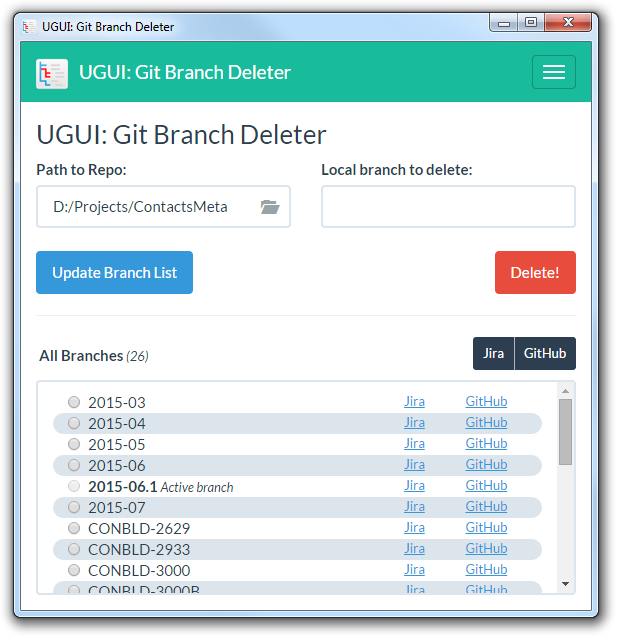
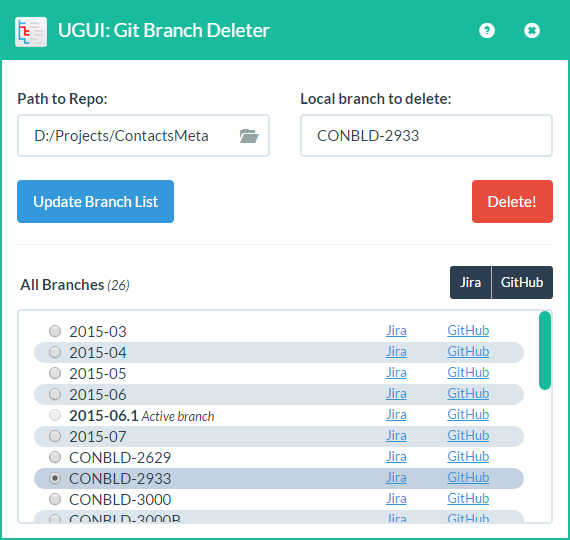
Change app to be frameless
Update Screenshot. Remove double title text. Adjust default height and
width of app. Slim nav down to two icons instead of a menu.

diff --git a/_style/style.css b/_style/style.css
@@ -1,1 +1,1 @@
-@charset "utf-8";*,*:before,*:after{box-sizing:border-box}html{border:0px;margin:0px;padding:0px;width:100%;height:100%}body{border:0px;margin:0px;padding:0px;width:100%;padding-top:57px}input[type="color"]{border:0px;margin:0px;padding:0px;width:3em;height:1.5em;background:transparent}.truncate{white-space:nowrap;overflow:hidden;text-overflow:ellipsis}.row{margin-top:8px}.vtop,.vmiddle,.vcenter,.vbottom{display:inline-block;float:none}.vtop{vertical-align:top}.vmiddle,.vcenter{vertical-align:middle}.vbottom{vertical-align:bottom}.navbar-brand{cursor:default}.navbar-brand img{max-width:32px;max-height:32px;margin:0px 7px 0px 0px}body{overflow:hidden}.browsie{top:-28px;right:15px;color:#95a5a6;background:#fff;padding:0px 0px 0px 4px;cursor:pointer}#allBranches{height:215px;overflow:auto}#allBranches a{color:#3498db}#allBranches div:nth-of-type(4n+1),#allBranches div:nth-of-type(4n+3){border-radius:50px 0px 0px 50px}#allBranches div:nth-of-type(4n+2),#allBranches div:nth-of-type(4n+4){border-radius:0px 50px 50px 0px}#allBranches div:nth-of-type(4n+3),#allBranches div:nth-of-type(4n+4){background-color:#dce4ec}#allBranches div:nth-of-type(4n+1):hover,#allBranches div:nth-of-type(4n+2):hover{background-color:#cfdfef}#allBranches div:nth-of-type(4n+3):hover,#allBranches div:nth-of-type(4n+4):hover{background-color:#c3d1e0}#jiraModal,#githubModal{background-color:rgba(0,0,0,0.6);padding-top:111px;z-index:1080}#button-group{font-size:0px}#jira{border-top-right-radius:0px;border-bottom-right-radius:0px}#github{border-left:1px solid #b6b6b6;border-top-left-radius:0px;border-bottom-left-radius:0px}.allbranchtext{position:relative;top:8px;left:3px}@media(max-width: 991px){#allBranches div:nth-of-type(4n+1),#allBranches div:nth-of-type(4n+2),#allBranches div:nth-of-type(4n+3),#allBranches div:nth-of-type(4n+4){border-radius:50px}#allBranches div:nth-of-type(4n+3),#allBranches div:nth-of-type(4n+4){background-color:transparent}#allBranches div:nth-of-type(odd){background-color:transparent}#allBranches div:nth-of-type(even){background-color:#dce4ec}#allBranches div:nth-of-type(odd):hover{background-color:#cfdfef}#allBranches div:nth-of-type(even):hover{background-color:#c3d1e0}}cmd,cmd def,cmd arg{display:none;font-size:0px;opacity:0;color:transparent}body #argsForm{margin-bottom:50px}body.dev{margin-bottom:280px}#uguiDevTools{display:none;background-color:#e0e0e0;color:#333;padding:0px 10px 0px 10px;border-width:3px 3px 0px 3px;border-style:solid;border-color:#777;border-radius:25px 25px 0px 0px;width:80%;position:fixed;bottom:0px;left:10%;letter-spacing:0px;text-rendering:optimizeSpeed !important;-webkit-font-smoothing:antialiased;font-family:sans-serif;font-size:14px;line-height:20px;transition:0.5s ease all;z-index:9999}#uguiDevTools a{color:#428bca}#uguiDevTools a:hover,#uguiDevTools a:focus{color:#2a6496}#uguiDevTools nav{margin:0px 0px 9px 9px}#uguiDevTools nav span{-webkit-user-select:none;user-select:none;font-size:10px;color:#666;cursor:pointer}#uguiDevTools nav span.selected{font-weight:bold;color:#555;text-shadow:1px 1px 0px #fafafa,-1px -1px 0px #fafafa,-1px 1px 0px #fafafa,1px -1px 0px #fafafa}#uguiDevTools nav span:after{content:" | ";color:#666;font-weight:normal;text-shadow:0px 0px 0px rgba(0,0,0,0)}#uguiDevTools nav span:last-of-type:after{content:""}#uguiDevTools select{background-color:#f5f5f5;border:1px solid #ccc;padding:2px;font-size:13px;font-family:sans-serif;margin:0px 0px 3px 0px}#uguiDevTools section{padding:1px;margin:0px 0px 10px 0px;display:block;height:auto}#uguiDevTools video,#uguiDevTools object,#uguiDevTools embed,#uguiDevTools iframe{display:block;width:320px;height:180px;float:left;border:0px;margin:0px 7px 10px 0px;padding:0px}#uguiDevTools h3{border:0px;margin:0px;padding:0px;border:0px;margin:18px 0px 0px 0px;padding:0px;font-family:sans-serif;font-size:18px;font-weight:bold;color:#333;text-shadow:inherit}#uguiDevTools p{border:0px;padding:0px;margin:8px 0px;font-size:14px;line-height:1.4;color:#333}#uguiDevTools code{border:0px;margin:0px;padding:0px;color:#333;font-size:11px;font-family:monospace}#uguiDevTools ul,#uguiDevTools li strong{border:0px;margin:0px;padding:0px;color:#333;font-size:14px;line-height:1.4}#uguiDevTools li{line-height:1.4;color:#333;font-size:14px;border:0px;padding:0px;margin:0px 0px 0px 23px}#uguiDevTools.slideHide{bottom:-7px !important;transition:0.5s ease all}#uguiDevTools *{transition:0.5s ease all}#uguiDevTools .uguiSwapper p,#uguiDevTools .uguiCommand span,#uguiDevTools .helpIntro{font-size:12px;color:#444}.shrink{height:0px !important;border:0px !important;margin:0px !important;padding:0px !important;font-size:0px !important;line-height:0px !important;opacity:0 !important}.shrink video{width:0px !important;height:0px !important;display:none !important}#commandLine{background-color:#f5f5f5;border:1px solid #ccc;margin:0px;padding:10px;color:#333;font-size:11px;font-family:monospace;line-height:1.4;max-height:92px;overflow:auto}#commandLine:before{content:"Command Line Output Preview:";font-weight:bold}.commandLineHint{font-family:sans-serif;font-size:12px}.commandLineHint em{background-color:#f1f1f1;border:1px solid #ccc;border-radius:3px;padding:2px;font-weight:bold;font-size:11px;font-style:normal}#swatchSwapper,span[data-nav="uguiExecutable"],.executableName{text-transform:capitalize}#setNewSwatch{height:24px;background:#f5f5f5;border:1px solid #ccc;padding:0px 10px;font-size:11px;line-height:0px;box-shadow:0px 0px 2px #ccc;vertical-align:top}.newSwatchSaved{font-style:italic;opacity:0;-webkit-transition:0.5s ease-in-out;transition:0.5s ease-in-out}.newSwatchSaved.showSaved{opacity:1}.executableName{color:#555}.executableHelp{max-height:156px}.modal .versionApp,.modal .versionUGUI{position:relative;top:-0.2em;background-color:rgba(0,0,0,0.2);border-radius:100px;margin:0px;padding:3px 8px;color:#fff;line-height:normal;box-shadow:inset 1px 1px 2px rgba(0,0,0,0.25)}body .devNav,body.prod .devNav{display:none !important}body.dev .devNav{display:block !important}#aboutModal{background-color:rgba(0,0,0,0.6);z-index:1080}#aboutModal .modal-body{overflow:auto;min-height:115px}#aboutModal .glyphicon-remove{cursor:pointer}#aboutModal .versionUGUI:before{content:"V"}.modal-header.shortScreen{padding:0px 9px !important}.modal-header.shortScreen h4{margin:8px 4px !important}.gitHubContributors{font-size:0px}.gitHubContributors img{max-width:32px;max-height:32px}.notOnline{font-size:1em}.notOnline img{display:none}.returnedCmdText{max-height:225px}.dropdown-menu>li>label{display:block;margin-bottom:0px;padding:3px 20px;font-weight:normal;color:#333;line-height:1.42857;clear:both;cursor:pointer;white-space:nowrap}.dropdown-menu>li>label:hover,.dropdown-menu>li>label:focus{text-decoration:none;color:#262626;background-color:#f5f5f5}.dropdown-menu>li>input:checked ~ label,.dropdown-menu>li>input:checked ~ label:hover,.dropdown-menu>li>input:checked ~ label:focus,.dropdown-menu>.active>label,.dropdown-menu>.active>label:hover,.dropdown-menu>.active>label:focus{color:#fff;text-decoration:none;outline:0;background-color:#428bca}.dropdown-menu>li>input[disabled] ~ label,.dropdown-menu>li>input[disabled] ~ label:hover,.dropdown-menu>li>input[disabled] ~ label:focus,.dropdown-menu>.disabled>label,.dropdown-menu>.disabled>label:hover,.dropdown-menu>.disabled>label:focus{color:#999}.dropdown-menu>li>input[disabled] ~ label:hover,.dropdown-menu>li>input[disabled] ~ label:focus,.dropdown-menu>.disabled>label:hover,.dropdown-menu>.disabled>label:focus{text-decoration:none;background-color:transparent;background-image:none;cursor:not-allowed}.dropdown-menu>li>input[type="radio"],.dropdown-menu>li>input[type="checkbox"]{display:none;position:absolute;top:-9999em;left:-9999em}.dropdown-menu>li>label:focus,.dropdown-menu>li>input:focus ~ label{outline:thin dotted;outline:5px auto -webkit-focus-ring-color;outline-offset:-2px}.dropdown-menu.pull-right{right:0px;left:auto}.dropdown-menu.pull-top{bottom:100%;top:auto;margin:0px 0px 2px;box-shadow:0px -6px 12px rgba(0,0,0,0.175)}.dropdown-menu.pull-center{right:50%;left:auto}.dropdown-menu.pull-middle{right:100%;margin:0px 2px 0px 0px;box-shadow:-5px 0px 10px rgba(0,0,0,0.2);left:auto}.dropdown-menu.pull-middle.pull-right{right:auto;left:100%;margin:0px 0px 0px 2px;box-shadow:5px 0px 10px rgba(0,0,0,0.2)}.dropdown-menu.pull-middle.pull-center{right:50%;margin:0px;box-shadow:0px 0px 10px rgba(0,0,0,0.2)}.dropdown-menu.bullet{margin-top:8px}.dropdown-menu.bullet:before{width:0px;height:0px;content:"";display:inline-block;position:absolute;border-color:transparent;border-style:solid;-webkit-transform:rotate(360deg);border-width:0px 7px 7px;border-bottom-color:#ccc;border-bottom-color:rgba(0,0,0,0.15);top:-7px;left:9px}.dropdown-menu.bullet:after{width:0px;height:0px;content:"";display:inline-block;position:absolute;border-color:transparent;border-style:solid;-webkit-transform:rotate(360deg);border-width:0px 6px 6px;border-bottom-color:#fff;top:-6px;left:10px}.dropdown-menu.bullet.pull-right:before{left:auto;right:9px}.dropdown-menu.bullet.pull-right:after{left:auto;right:10px}.dropdown-menu.bullet.pull-top{margin-top:0px;margin-bottom:8px}.dropdown-menu.bullet.pull-top:before{top:auto;bottom:-7px;border-bottom-width:0px;border-top-width:7px;border-top-color:#ccc;border-top-color:rgba(0,0,0,0.15)}.dropdown-menu.bullet.pull-top:after{top:auto;bottom:-6px;border-bottom:none;border-top-width:6px;border-top-color:#fff}.dropdown-menu.bullet.pull-center:before{left:auto;right:50%;margin-right:-7px}.dropdown-menu.bullet.pull-center:after{left:auto;right:50%;margin-right:-6px}.dropdown-menu.bullet.pull-middle{margin-right:8px}.dropdown-menu.bullet.pull-middle:before{top:50%;left:100%;right:auto;margin-top:-7px;border-right-width:0px;border-bottom-color:transparent;border-top-width:7px;border-left-color:#ccc;border-left-color:rgba(0,0,0,0.15)}.dropdown-menu.bullet.pull-middle:after{top:50%;left:100%;right:auto;margin-top:-6px;border-right-width:0px;border-bottom-color:transparent;border-top-width:6px;border-left-color:#fff}.dropdown-menu.bullet.pull-middle.pull-right{margin-right:0;margin-left:8px}.dropdown-menu.bullet.pull-middle.pull-right:before{left:-7px;border-left-width:0px;border-right-width:7px;border-right-color:#ccc;border-right-color:rgba(0,0,0,0.15)}.dropdown-menu.bullet.pull-middle.pull-right:after{left:-6px;border-left-width:0px;border-right-width:6px;border-right-color:#fff}.dropdown-menu.bullet.pull-middle.pull-center{margin-left:0px;margin-right:0px}.dropdown-menu.bullet.pull-middle.pull-center:before{border:none;display:none}.dropdown-menu.bullet.pull-middle.pull-center:after{border:none;display:none}.dropdown-submenu{position:relative}.dropdown-submenu>.dropdown-menu{top:0px;left:100%;margin-top:-6px;margin-left:-1px;border-top-left-radius:0px}.dropdown-submenu>a:before{display:block;float:right;width:0px;height:0px;content:"";margin-top:6px;margin-right:-8px;border-width:4px 0 4px 4px;border-style:solid;border-left-style:dashed;border-top-color:transparent;border-bottom-color:transparent}@media (max-width: 767px){.navbar-nav .dropdown-submenu>a{padding-left:40px}.navbar-nav .dropdown-submenu>a:before{margin-top:8px;border-color:inherit;border-style:solid;border-width:4px 4px 0px;border-left-color:transparent;border-right-color:transparent}.navbar-nav>.open>.dropdown-menu>.dropdown-submenu>.dropdown-menu>li>a,.navbar-nav>.open>.dropdown-menu>.dropdown-submenu>.dropdown-menu>li>label{padding-left:35px}.navbar-nav>.open>.dropdown-menu>.dropdown-submenu>.dropdown-menu>li>.dropdown-menu>li>a,.navbar-nav>.open>.dropdown-menu>.dropdown-submenu>.dropdown-menu>li>.dropdown-menu>li>label{padding-left:45px}.navbar-nav>.open>.dropdown-menu>.dropdown-submenu>.dropdown-menu>li>.dropdown-menu>li>.dropdown-menu>li>a,.navbar-nav>.open>.dropdown-menu>.dropdown-submenu>.dropdown-menu>li>.dropdown-menu>li>.dropdown-menu>li>label{padding-left:55px}.navbar-nav>.open>.dropdown-menu>.dropdown-submenu>.dropdown-menu>li>.dropdown-menu>li>.dropdown-menu>li>.dropdown-menu>li>a,.navbar-nav>.open>.dropdown-menu>.dropdown-submenu>.dropdown-menu>li>.dropdown-menu>li>.dropdown-menu>li>.dropdown-menu>li>label{padding-left:65px}.navbar-nav>.open>.dropdown-menu>.dropdown-submenu>.dropdown-menu>li>.dropdown-menu>li>.dropdown-menu>li>.dropdown-menu>li>.dropdown-menu>li>a,.navbar-nav>.open>.dropdown-menu>.dropdown-submenu>.dropdown-menu>li>.dropdown-menu>li>.dropdown-menu>li>.dropdown-menu>li>.dropdown-menu>li>label{padding-left:75px}.navbar-default .navbar-nav .open>.dropdown-menu>.dropdown-submenu.open>a,.navbar-default .navbar-nav .open>.dropdown-menu>.dropdown-submenu.open>a:hover,.navbar-default .navbar-nav .open>.dropdown-menu>.dropdown-submenu.open>a:focus{background-color:#e7e7e7;color:#555}}@media (max-width: 767px){.navbar-default .navbar-nav .open>.dropdown-menu>.dropdown-submenu.open>a:before{border-top-color:#555}.navbar-inverse .navbar-nav .open>.dropdown-menu>.dropdown-submenu.open>a,.navbar-inverse .navbar-nav .open>.dropdown-menu>.dropdown-submenu.open>a:hover,.navbar-inverse .navbar-nav .open>.dropdown-menu>.dropdown-submenu.open>a:focus{background-color:#080808;color:#fff}}@media (max-width: 767px){.navbar-inverse .navbar-nav .open>.dropdown-menu>.dropdown-submenu.open>a:before{border-top-color:#fff}}.slider{display:inline-block;vertical-align:middle;position:relative}.slider.slider-horizontal{width:210px;height:20px}.slider.slider-horizontal .slider-track{height:10px;width:100%;margin-top:-5px;top:50%;left:0}.slider.slider-horizontal .slider-selection{height:100%;top:0;bottom:0}.slider.slider-horizontal .slider-handle{margin-left:-10px;margin-top:-5px}.slider.slider-horizontal .slider-handle.triangle{border-width:0 10px 10px 10px;width:0;height:0;border-bottom-color:#0480BE;margin-top:0}.slider.slider-vertical{height:210px;width:20px}.slider.slider-vertical .slider-track{width:10px;height:100%;margin-left:-5px;left:50%;top:0}.slider.slider-vertical .slider-selection{width:100%;left:0;top:0;bottom:0}.slider.slider-vertical .slider-handle{margin-left:-5px;margin-top:-10px}.slider.slider-vertical .slider-handle.triangle{border-width:10px 0 10px 10px;width:1px;height:1px;border-left-color:#0480BE;margin-left:0}.slider input{display:none}.slider .tooltip-inner{white-space:nowrap}.slider-track{position:absolute;cursor:pointer;background-color:#f7f7f7;background-image:linear-gradient(to bottom, #f5f5f5,#f9f9f9);background-repeat:repeat-x;-webkit-box-shadow:inset 0 1px 2px rgba(0,0,0,0.1);-moz-box-shadow:inset 0 1px 2px rgba(0,0,0,0.1);box-shadow:inset 0 1px 2px rgba(0,0,0,0.1);-webkit-border-radius:4px;-moz-border-radius:4px;-ms-border-radius:4px;-o-border-radius:4px;border-radius:4px}.slider-selection{position:absolute;background-color:#f7f7f7;background-image:linear-gradient(to bottom, #f9f9f9,#f5f5f5);background-repeat:repeat-x;-webkit-box-shadow:inset 0 -1px 0 rgba(0,0,0,0.15);-moz-box-shadow:inset 0 -1px 0 rgba(0,0,0,0.15);box-shadow:inset 0 -1px 0 rgba(0,0,0,0.15);-webkit-box-sizing:border-box;-moz-box-sizing:border-box;box-sizing:border-box;-webkit-border-radius:4px;-moz-border-radius:4px;-ms-border-radius:4px;-o-border-radius:4px;border-radius:4px}.slider-handle{position:absolute;width:20px;height:20px;background-color:#337AB7;background-color:#0e90d2;background-image:linear-gradient(to bottom, #149bdf,#0480be);background-repeat:repeat-x;-webkit-box-shadow:inset 0 1px 0 rgba(255,255,255,0.2),0 1px 2px rgba(0,0,0,0.05);-moz-box-shadow:inset 0 1px 0 rgba(255,255,255,0.2),0 1px 2px rgba(0,0,0,0.05);box-shadow:inset 0 1px 0 rgba(255,255,255,0.2),0 1px 2px rgba(0,0,0,0.05);border:0px solid transparent}.slider-handle.round{-webkit-border-radius:20px;-moz-border-radius:20px;-ms-border-radius:20px;-o-border-radius:20px;border-radius:20px}.slider-handle.triangle{background:transparent none}.slider{margin:0px 10px}.slider .slider-selection{background:#CCC}.tooltip.top{margin-top:-35px}.ezdz{position:relative}.ezdz label{margin:0px;line-height:1.5em;vertical-align:middle}.ezdz label:after{content:" "}.ezdz span{vertical-align:middle}.ezdz img{display:block;border-radius:10px;vertical-align:middle;max-width:100px;max-height:50px;margin:0px 5px 0px 0px}.ezdz [type="file"]{position:absolute;cursor:pointer;opacity:1;top:0px;right:0px;width:100%;height:100%}.ezdz [type="file"] /deep/ [type="button"]{display:none}
+@charset "utf-8";*,*:before,*:after{box-sizing:border-box}html{border:0px;margin:0px;padding:0px;width:100%;height:100%}body{border:0px;margin:0px;padding:0px;width:100%;padding-top:57px}input[type="color"]{border:0px;margin:0px;padding:0px;width:3em;height:1.5em;background:transparent}.truncate{white-space:nowrap;overflow:hidden;text-overflow:ellipsis}.row{margin-top:8px}.vtop,.vmiddle,.vcenter,.vbottom{display:inline-block;float:none}.vtop{vertical-align:top}.vmiddle,.vcenter{vertical-align:middle}.vbottom{vertical-align:bottom}.navbar-brand{cursor:default}.navbar-brand img{max-width:32px;max-height:32px;margin:0px 7px 0px 0px}*::-webkit-scrollbar-track{border-radius:10px;background:#fff}*::-webkit-scrollbar{width:12px;background-color:#fff}*::-webkit-scrollbar-thumb{border-radius:10px;background-color:#18bc9c}html{border:2px solid #18bc9c}body{overflow:hidden}.dragon{-webkit-app-region:drag}.dragoff{-webkit-app-region:no-drag}.navIcons{float:right;margin-right:17px}.navIcons a{line-height:21px;padding:19.5px 13.5px;color:#fff;font-size:15px;text-decoration:none}.navIcons a:hover{color:#375a7f}.browsie{top:-28px;right:15px;color:#95a5a6;background:#fff;padding:0px 0px 0px 4px;cursor:pointer}#allBranches{height:215px;overflow:auto}#allBranches a{color:#3498db}#allBranches div:nth-of-type(4n+1),#allBranches div:nth-of-type(4n+3){border-radius:50px 0px 0px 50px}#allBranches div:nth-of-type(4n+2),#allBranches div:nth-of-type(4n+4){border-radius:0px 50px 50px 0px}#allBranches div:nth-of-type(4n+3),#allBranches div:nth-of-type(4n+4){background-color:#dce4ec}#allBranches div:nth-of-type(4n+1):hover,#allBranches div:nth-of-type(4n+2):hover{background-color:#cfdfef}#allBranches div:nth-of-type(4n+3):hover,#allBranches div:nth-of-type(4n+4):hover{background-color:#c3d1e0}.allbranchtext{position:relative;top:8px;left:3px}#jiraModal,#githubModal{background-color:rgba(0,0,0,0.6);padding-top:111px;z-index:1080}#button-group{font-size:0px}#jira{border-top-right-radius:0px;border-bottom-right-radius:0px}#github{border-left:1px solid #b6b6b6;border-top-left-radius:0px;border-bottom-left-radius:0px}@media (min-width: 768px){.navIcons{display:none}}@media(max-width: 991px){#allBranches div:nth-of-type(4n+1),#allBranches div:nth-of-type(4n+2),#allBranches div:nth-of-type(4n+3),#allBranches div:nth-of-type(4n+4){border-radius:50px}#allBranches div:nth-of-type(4n+3),#allBranches div:nth-of-type(4n+4){background-color:transparent}#allBranches div:nth-of-type(odd){background-color:transparent}#allBranches div:nth-of-type(even){background-color:#dce4ec}#allBranches div:nth-of-type(odd):hover{background-color:#cfdfef}#allBranches div:nth-of-type(even):hover{background-color:#c3d1e0}}cmd,cmd def,cmd arg{display:none;font-size:0px;opacity:0;color:transparent}body #argsForm{margin-bottom:50px}body.dev{margin-bottom:280px}#uguiDevTools{display:none;background-color:#e0e0e0;color:#333;padding:0px 10px 0px 10px;border-width:3px 3px 0px 3px;border-style:solid;border-color:#777;border-radius:25px 25px 0px 0px;width:80%;position:fixed;bottom:0px;left:10%;letter-spacing:0px;text-rendering:optimizeSpeed !important;-webkit-font-smoothing:antialiased;font-family:sans-serif;font-size:14px;line-height:20px;transition:0.5s ease all;z-index:9999}#uguiDevTools a{color:#428bca}#uguiDevTools a:hover,#uguiDevTools a:focus{color:#2a6496}#uguiDevTools nav{margin:0px 0px 9px 9px}#uguiDevTools nav span{-webkit-user-select:none;user-select:none;font-size:10px;color:#666;cursor:pointer}#uguiDevTools nav span.selected{font-weight:bold;color:#555;text-shadow:1px 1px 0px #fafafa,-1px -1px 0px #fafafa,-1px 1px 0px #fafafa,1px -1px 0px #fafafa}#uguiDevTools nav span:after{content:" | ";color:#666;font-weight:normal;text-shadow:0px 0px 0px rgba(0,0,0,0)}#uguiDevTools nav span:last-of-type:after{content:""}#uguiDevTools select{background-color:#f5f5f5;border:1px solid #ccc;padding:2px;font-size:13px;font-family:sans-serif;margin:0px 0px 3px 0px}#uguiDevTools section{padding:1px;margin:0px 0px 10px 0px;display:block;height:auto}#uguiDevTools video,#uguiDevTools object,#uguiDevTools embed,#uguiDevTools iframe{display:block;width:320px;height:180px;float:left;border:0px;margin:0px 7px 10px 0px;padding:0px}#uguiDevTools h3{border:0px;margin:0px;padding:0px;border:0px;margin:18px 0px 0px 0px;padding:0px;font-family:sans-serif;font-size:18px;font-weight:bold;color:#333;text-shadow:inherit}#uguiDevTools p{border:0px;padding:0px;margin:8px 0px;font-size:14px;line-height:1.4;color:#333}#uguiDevTools code{border:0px;margin:0px;padding:0px;color:#333;font-size:11px;font-family:monospace}#uguiDevTools ul,#uguiDevTools li strong{border:0px;margin:0px;padding:0px;color:#333;font-size:14px;line-height:1.4}#uguiDevTools li{line-height:1.4;color:#333;font-size:14px;border:0px;padding:0px;margin:0px 0px 0px 23px}#uguiDevTools.slideHide{bottom:-7px !important;transition:0.5s ease all}#uguiDevTools *{transition:0.5s ease all}#uguiDevTools .uguiSwapper p,#uguiDevTools .uguiCommand span,#uguiDevTools .helpIntro{font-size:12px;color:#444}.shrink{height:0px !important;border:0px !important;margin:0px !important;padding:0px !important;font-size:0px !important;line-height:0px !important;opacity:0 !important}.shrink video{width:0px !important;height:0px !important;display:none !important}#commandLine{background-color:#f5f5f5;border:1px solid #ccc;margin:0px;padding:10px;color:#333;font-size:11px;font-family:monospace;line-height:1.4;max-height:92px;overflow:auto}#commandLine:before{content:"Command Line Output Preview:";font-weight:bold}.commandLineHint{font-family:sans-serif;font-size:12px}.commandLineHint em{background-color:#f1f1f1;border:1px solid #ccc;border-radius:3px;padding:2px;font-weight:bold;font-size:11px;font-style:normal}#swatchSwapper,span[data-nav="uguiExecutable"],.executableName{text-transform:capitalize}#setNewSwatch{height:24px;background:#f5f5f5;border:1px solid #ccc;padding:0px 10px;font-size:11px;line-height:0px;box-shadow:0px 0px 2px #ccc;vertical-align:top}.newSwatchSaved{font-style:italic;opacity:0;-webkit-transition:0.5s ease-in-out;transition:0.5s ease-in-out}.newSwatchSaved.showSaved{opacity:1}.executableName{color:#555}.executableHelp{max-height:156px}.modal .versionApp,.modal .versionUGUI{position:relative;top:-0.2em;background-color:rgba(0,0,0,0.2);border-radius:100px;margin:0px;padding:3px 8px;color:#fff;line-height:normal;box-shadow:inset 1px 1px 2px rgba(0,0,0,0.25)}body .devNav,body.prod .devNav{display:none !important}body.dev .devNav{display:block !important}#aboutModal{background-color:rgba(0,0,0,0.6);z-index:1080}#aboutModal .modal-body{overflow:auto;min-height:115px}#aboutModal .glyphicon-remove{cursor:pointer}#aboutModal .versionUGUI:before{content:"V"}.modal-header.shortScreen{padding:0px 9px !important}.modal-header.shortScreen h4{margin:8px 4px !important}.gitHubContributors{font-size:0px}.gitHubContributors img{max-width:32px;max-height:32px}.notOnline{font-size:1em}.notOnline img{display:none}.returnedCmdText{max-height:225px}.dropdown-menu>li>label{display:block;margin-bottom:0px;padding:3px 20px;font-weight:normal;color:#333;line-height:1.42857;clear:both;cursor:pointer;white-space:nowrap}.dropdown-menu>li>label:hover,.dropdown-menu>li>label:focus{text-decoration:none;color:#262626;background-color:#f5f5f5}.dropdown-menu>li>input:checked ~ label,.dropdown-menu>li>input:checked ~ label:hover,.dropdown-menu>li>input:checked ~ label:focus,.dropdown-menu>.active>label,.dropdown-menu>.active>label:hover,.dropdown-menu>.active>label:focus{color:#fff;text-decoration:none;outline:0;background-color:#428bca}.dropdown-menu>li>input[disabled] ~ label,.dropdown-menu>li>input[disabled] ~ label:hover,.dropdown-menu>li>input[disabled] ~ label:focus,.dropdown-menu>.disabled>label,.dropdown-menu>.disabled>label:hover,.dropdown-menu>.disabled>label:focus{color:#999}.dropdown-menu>li>input[disabled] ~ label:hover,.dropdown-menu>li>input[disabled] ~ label:focus,.dropdown-menu>.disabled>label:hover,.dropdown-menu>.disabled>label:focus{text-decoration:none;background-color:transparent;background-image:none;cursor:not-allowed}.dropdown-menu>li>input[type="radio"],.dropdown-menu>li>input[type="checkbox"]{display:none;position:absolute;top:-9999em;left:-9999em}.dropdown-menu>li>label:focus,.dropdown-menu>li>input:focus ~ label{outline:thin dotted;outline:5px auto -webkit-focus-ring-color;outline-offset:-2px}.dropdown-menu.pull-right{right:0px;left:auto}.dropdown-menu.pull-top{bottom:100%;top:auto;margin:0px 0px 2px;box-shadow:0px -6px 12px rgba(0,0,0,0.175)}.dropdown-menu.pull-center{right:50%;left:auto}.dropdown-menu.pull-middle{right:100%;margin:0px 2px 0px 0px;box-shadow:-5px 0px 10px rgba(0,0,0,0.2);left:auto}.dropdown-menu.pull-middle.pull-right{right:auto;left:100%;margin:0px 0px 0px 2px;box-shadow:5px 0px 10px rgba(0,0,0,0.2)}.dropdown-menu.pull-middle.pull-center{right:50%;margin:0px;box-shadow:0px 0px 10px rgba(0,0,0,0.2)}.dropdown-menu.bullet{margin-top:8px}.dropdown-menu.bullet:before{width:0px;height:0px;content:"";display:inline-block;position:absolute;border-color:transparent;border-style:solid;-webkit-transform:rotate(360deg);border-width:0px 7px 7px;border-bottom-color:#ccc;border-bottom-color:rgba(0,0,0,0.15);top:-7px;left:9px}.dropdown-menu.bullet:after{width:0px;height:0px;content:"";display:inline-block;position:absolute;border-color:transparent;border-style:solid;-webkit-transform:rotate(360deg);border-width:0px 6px 6px;border-bottom-color:#fff;top:-6px;left:10px}.dropdown-menu.bullet.pull-right:before{left:auto;right:9px}.dropdown-menu.bullet.pull-right:after{left:auto;right:10px}.dropdown-menu.bullet.pull-top{margin-top:0px;margin-bottom:8px}.dropdown-menu.bullet.pull-top:before{top:auto;bottom:-7px;border-bottom-width:0px;border-top-width:7px;border-top-color:#ccc;border-top-color:rgba(0,0,0,0.15)}.dropdown-menu.bullet.pull-top:after{top:auto;bottom:-6px;border-bottom:none;border-top-width:6px;border-top-color:#fff}.dropdown-menu.bullet.pull-center:before{left:auto;right:50%;margin-right:-7px}.dropdown-menu.bullet.pull-center:after{left:auto;right:50%;margin-right:-6px}.dropdown-menu.bullet.pull-middle{margin-right:8px}.dropdown-menu.bullet.pull-middle:before{top:50%;left:100%;right:auto;margin-top:-7px;border-right-width:0px;border-bottom-color:transparent;border-top-width:7px;border-left-color:#ccc;border-left-color:rgba(0,0,0,0.15)}.dropdown-menu.bullet.pull-middle:after{top:50%;left:100%;right:auto;margin-top:-6px;border-right-width:0px;border-bottom-color:transparent;border-top-width:6px;border-left-color:#fff}.dropdown-menu.bullet.pull-middle.pull-right{margin-right:0;margin-left:8px}.dropdown-menu.bullet.pull-middle.pull-right:before{left:-7px;border-left-width:0px;border-right-width:7px;border-right-color:#ccc;border-right-color:rgba(0,0,0,0.15)}.dropdown-menu.bullet.pull-middle.pull-right:after{left:-6px;border-left-width:0px;border-right-width:6px;border-right-color:#fff}.dropdown-menu.bullet.pull-middle.pull-center{margin-left:0px;margin-right:0px}.dropdown-menu.bullet.pull-middle.pull-center:before{border:none;display:none}.dropdown-menu.bullet.pull-middle.pull-center:after{border:none;display:none}.dropdown-submenu{position:relative}.dropdown-submenu>.dropdown-menu{top:0px;left:100%;margin-top:-6px;margin-left:-1px;border-top-left-radius:0px}.dropdown-submenu>a:before{display:block;float:right;width:0px;height:0px;content:"";margin-top:6px;margin-right:-8px;border-width:4px 0 4px 4px;border-style:solid;border-left-style:dashed;border-top-color:transparent;border-bottom-color:transparent}@media (max-width: 767px){.navbar-nav .dropdown-submenu>a{padding-left:40px}.navbar-nav .dropdown-submenu>a:before{margin-top:8px;border-color:inherit;border-style:solid;border-width:4px 4px 0px;border-left-color:transparent;border-right-color:transparent}.navbar-nav>.open>.dropdown-menu>.dropdown-submenu>.dropdown-menu>li>a,.navbar-nav>.open>.dropdown-menu>.dropdown-submenu>.dropdown-menu>li>label{padding-left:35px}.navbar-nav>.open>.dropdown-menu>.dropdown-submenu>.dropdown-menu>li>.dropdown-menu>li>a,.navbar-nav>.open>.dropdown-menu>.dropdown-submenu>.dropdown-menu>li>.dropdown-menu>li>label{padding-left:45px}.navbar-nav>.open>.dropdown-menu>.dropdown-submenu>.dropdown-menu>li>.dropdown-menu>li>.dropdown-menu>li>a,.navbar-nav>.open>.dropdown-menu>.dropdown-submenu>.dropdown-menu>li>.dropdown-menu>li>.dropdown-menu>li>label{padding-left:55px}.navbar-nav>.open>.dropdown-menu>.dropdown-submenu>.dropdown-menu>li>.dropdown-menu>li>.dropdown-menu>li>.dropdown-menu>li>a,.navbar-nav>.open>.dropdown-menu>.dropdown-submenu>.dropdown-menu>li>.dropdown-menu>li>.dropdown-menu>li>.dropdown-menu>li>label{padding-left:65px}.navbar-nav>.open>.dropdown-menu>.dropdown-submenu>.dropdown-menu>li>.dropdown-menu>li>.dropdown-menu>li>.dropdown-menu>li>.dropdown-menu>li>a,.navbar-nav>.open>.dropdown-menu>.dropdown-submenu>.dropdown-menu>li>.dropdown-menu>li>.dropdown-menu>li>.dropdown-menu>li>.dropdown-menu>li>label{padding-left:75px}.navbar-default .navbar-nav .open>.dropdown-menu>.dropdown-submenu.open>a,.navbar-default .navbar-nav .open>.dropdown-menu>.dropdown-submenu.open>a:hover,.navbar-default .navbar-nav .open>.dropdown-menu>.dropdown-submenu.open>a:focus{background-color:#e7e7e7;color:#555}}@media (max-width: 767px){.navbar-default .navbar-nav .open>.dropdown-menu>.dropdown-submenu.open>a:before{border-top-color:#555}.navbar-inverse .navbar-nav .open>.dropdown-menu>.dropdown-submenu.open>a,.navbar-inverse .navbar-nav .open>.dropdown-menu>.dropdown-submenu.open>a:hover,.navbar-inverse .navbar-nav .open>.dropdown-menu>.dropdown-submenu.open>a:focus{background-color:#080808;color:#fff}}@media (max-width: 767px){.navbar-inverse .navbar-nav .open>.dropdown-menu>.dropdown-submenu.open>a:before{border-top-color:#fff}}.slider{display:inline-block;vertical-align:middle;position:relative}.slider.slider-horizontal{width:210px;height:20px}.slider.slider-horizontal .slider-track{height:10px;width:100%;margin-top:-5px;top:50%;left:0}.slider.slider-horizontal .slider-selection{height:100%;top:0;bottom:0}.slider.slider-horizontal .slider-handle{margin-left:-10px;margin-top:-5px}.slider.slider-horizontal .slider-handle.triangle{border-width:0 10px 10px 10px;width:0;height:0;border-bottom-color:#0480BE;margin-top:0}.slider.slider-vertical{height:210px;width:20px}.slider.slider-vertical .slider-track{width:10px;height:100%;margin-left:-5px;left:50%;top:0}.slider.slider-vertical .slider-selection{width:100%;left:0;top:0;bottom:0}.slider.slider-vertical .slider-handle{margin-left:-5px;margin-top:-10px}.slider.slider-vertical .slider-handle.triangle{border-width:10px 0 10px 10px;width:1px;height:1px;border-left-color:#0480BE;margin-left:0}.slider input{display:none}.slider .tooltip-inner{white-space:nowrap}.slider-track{position:absolute;cursor:pointer;background-color:#f7f7f7;background-image:linear-gradient(to bottom, #f5f5f5,#f9f9f9);background-repeat:repeat-x;-webkit-box-shadow:inset 0 1px 2px rgba(0,0,0,0.1);-moz-box-shadow:inset 0 1px 2px rgba(0,0,0,0.1);box-shadow:inset 0 1px 2px rgba(0,0,0,0.1);-webkit-border-radius:4px;-moz-border-radius:4px;-ms-border-radius:4px;-o-border-radius:4px;border-radius:4px}.slider-selection{position:absolute;background-color:#f7f7f7;background-image:linear-gradient(to bottom, #f9f9f9,#f5f5f5);background-repeat:repeat-x;-webkit-box-shadow:inset 0 -1px 0 rgba(0,0,0,0.15);-moz-box-shadow:inset 0 -1px 0 rgba(0,0,0,0.15);box-shadow:inset 0 -1px 0 rgba(0,0,0,0.15);-webkit-box-sizing:border-box;-moz-box-sizing:border-box;box-sizing:border-box;-webkit-border-radius:4px;-moz-border-radius:4px;-ms-border-radius:4px;-o-border-radius:4px;border-radius:4px}.slider-handle{position:absolute;width:20px;height:20px;background-color:#337AB7;background-color:#0e90d2;background-image:linear-gradient(to bottom, #149bdf,#0480be);background-repeat:repeat-x;-webkit-box-shadow:inset 0 1px 0 rgba(255,255,255,0.2),0 1px 2px rgba(0,0,0,0.05);-moz-box-shadow:inset 0 1px 0 rgba(255,255,255,0.2),0 1px 2px rgba(0,0,0,0.05);box-shadow:inset 0 1px 0 rgba(255,255,255,0.2),0 1px 2px rgba(0,0,0,0.05);border:0px solid transparent}.slider-handle.round{-webkit-border-radius:20px;-moz-border-radius:20px;-ms-border-radius:20px;-o-border-radius:20px;border-radius:20px}.slider-handle.triangle{background:transparent none}.slider{margin:0px 10px}.slider .slider-selection{background:#CCC}.tooltip.top{margin-top:-35px}.ezdz{position:relative}.ezdz label{margin:0px;line-height:1.5em;vertical-align:middle}.ezdz label:after{content:" "}.ezdz span{vertical-align:middle}.ezdz img{display:block;border-radius:10px;vertical-align:middle;max-width:100px;max-height:50px;margin:0px 5px 0px 0px}.ezdz [type="file"]{position:absolute;cursor:pointer;opacity:1;top:0px;right:0px;width:100%;height:100%}.ezdz [type="file"] /deep/ [type="button"]{display:none}

diff --git a/index.htm b/index.htm
@@ -77,57 +77,26 @@
         /////////////////////////////////////////////////////////////////
       -->
 
-    <nav class="navbar navbar-inverse navbar-fixed-top" role="navigation">
+    <div class="navbar navbar-inverse navbar-fixed-top dragon" role="navigation">
       <div class="container">
         <div class="navbar-header">
-          <button type="button" class="navbar-toggle collapsed" data-toggle="collapse" data-target=".navbar-collapse">
-            <span class="sr-only">Toggle navigation</span>
-            <span class="icon-bar"></span>
-            <span class="icon-bar"></span>
-            <span class="icon-bar"></span>
-          </button>
+          <div class="navIcons">
+            <a title="About" href="#about" class="dragoff glyphicon glyphicon-question-sign" aria-hidden="true"><span class="sr-only">About</span></a>
+            <a title="Exit" href="#exit" class="dragoff glyphicon glyphicon-remove-sign" aria-hidden="true"><span class="sr-only">Exit</span></a>
+          </div>
           <a class="navbar-brand">
-            <img src="_img/logo.png" alt="Logo" />
-            <span class="applicationName">UGUI: Git Branch Deleter</span>
+            <img src="_img/logo.png" alt="Defluff Logo" />
+            <span class="applicationName">Defluff</span>
           </a>
         </div>
         <div class="navbar-collapse collapse">
-          <ul class="nav navbar-nav">
-            <li><a href="#about">About</a></li>
-            <li><a href="#exit">Exit</a></li>
-            <!--
-            <li class="dropdown">
-              <a href="#" class="dropdown-toggle" data-toggle="dropdown">File <span class="caret"></span></a>
-              <ul class="dropdown-menu" role="menu">
-                <li><a href="#exit">Exit</a></li>
-              </ul>
-            </li>
-            -->
-            <li class="dropdown devNav">
-              <a href="#" class="dropdown-toggle" data-toggle="dropdown">View <span class="caret"></span></a>
-              <ul class="dropdown-menu" role="menu">
-                <li><a href="#fullscreen">Fullscreen</a></li>
-                <!-- devNav items are hidden when in Production mode -->
-                <li class="devNav"><a href="#console">Console</a></li>
-                <li class="divider"></li>
-                <li class="devNav"><a href="#cmdoutput">Command Line Output</a></li>
-              </ul>
-            </li>
-            <!--
-            <li class="dropdown navHelp">
-              <a href="#" class="dropdown-toggle" data-toggle="dropdown">Help <span class="caret"></span></a>
-              <ul class="dropdown-menu" role="menu">
-            -->
-                <!-- <a href="#about"> must exist in your app as it contains the credits for UGUI -->
-            <!--
-                <li><a href="#about">About</a></li>
-              </ul>
-            </li>
-            -->
+          <ul class="nav navbar-nav" style="float:right">
+            <li><a title="About" href="#about" class="dragoff glyphicon glyphicon-question-sign" aria-hidden="true"><span class="sr-only">About</span></a></li>
+            <li><a title="Exit" href="#exit" class="dragoff glyphicon glyphicon-remove-sign" aria-hidden="true"><span class="sr-only">Exit</span></a></li>
           </ul>
         </div><!--/.nav-collapse -->
       </div>
-    </nav>
+    </div>
 
 
 
@@ -148,12 +117,7 @@
 
     <div class="container" role="main">
 
-      <header>
-        <h3>
-          <span class="applicationName">UGUI: Git Branch Deleter</span>
-          <small class="applicationDescription"></small>
-        </h3>
-      </header>
+      <header><br /></header>
 
 
 

diff --git a/_sass/_app.sass b/_sass/_app.sass
@@ -1,8 +1,53 @@
 
 // App specific styles
 
+
+
+/* Window styles */
+
+*::-webkit-scrollbar-track
+    border-radius: 10px
+    background: #FFF
+
+*::-webkit-scrollbar
+    width: 12px
+    background-color: #FFF
+
+*::-webkit-scrollbar-thumb
+    border-radius: 10px
+    background-color: #18BC9C
+
+html
+    border: 2px solid #18BC9C
+
 body
     overflow: hidden
+
+
+
+/* Navigation */
+
+.dragon
+    -webkit-app-region: drag
+
+.dragoff
+    -webkit-app-region: no-drag
+
+.navIcons
+    float: right
+    margin-right: 17px
+    a
+        line-height: 21px
+        padding: 19.5px 13.5px
+        color: #FFF
+        font-size: 15px
+        text-decoration: none
+        &:hover
+            color: #375A7F
+
+
+
+/* Basic app functionality */
 
 .browsie
     top: -28px
@@ -34,6 +79,15 @@ body
         &:nth-of-type(4n+4):hover
             background-color: #C3D1E0
 
+.allbranchtext
+    position: relative
+    top: 8px
+    left: 3px
+
+
+
+/* Jira and GitHub buttons and modals */
+
 #jiraModal,
 #githubModal
     background-color: rgba(0, 0, 0, 0.6)
@@ -52,10 +106,13 @@ body
     border-top-left-radius: 0px
     border-bottom-left-radius: 0px
 
-.allbranchtext
-    position: relative
-    top: 8px
-    left: 3px
+
+
+/* Media Queries */
+
+@media (min-width: 768px)
+    .navIcons
+        display: none
 
 @media(max-width: 991px)
     #allBranches div

diff --git a/_scripts/app.js b/_scripts/app.js
@@ -125,7 +125,7 @@ function runApp() {
 
     $(window).resize(function(){
         windowHeight = $(window).height();
-        branchContainerHeight = windowHeight - 350;
+        branchContainerHeight = windowHeight - 325;
         $("#allBranches").css("height", branchContainerHeight + "px");
     });
 
